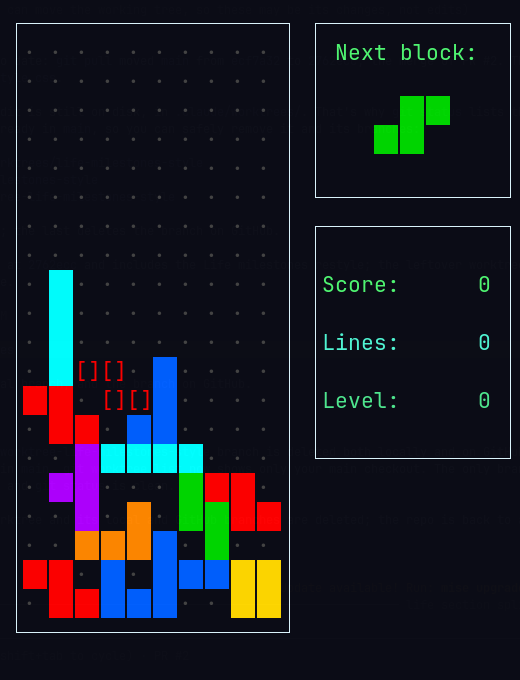
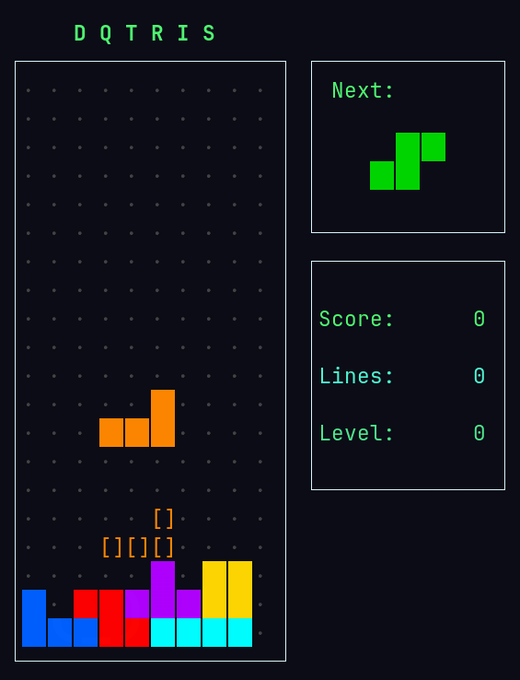
Update dqtris screenshot with the new title

diff --git a/experiments/dqtris.html b/experiments/dqtris.html
@@ -181,7 +181,7 @@
     <p class="section-label">Before &amp; after</p>
     <div class="compare">
       <figure>
-        <img src="../images/dqtris.png" alt="dqtris: classic tetromino colours, a faint dot grid, gaps between squares and a red ghost piece showing where the falling Z will land" loading="lazy">
+        <img src="../images/dqtris.png?v=2026-11-06b" alt="dqtris: the DQTRIS title above the well, classic tetromino colours, a faint dot grid, gaps between squares and an orange ghost piece showing where the falling L will land" loading="lazy">
         <figcaption class="mine">dqtris</figcaption>
       </figure>
       <figure class="original">
